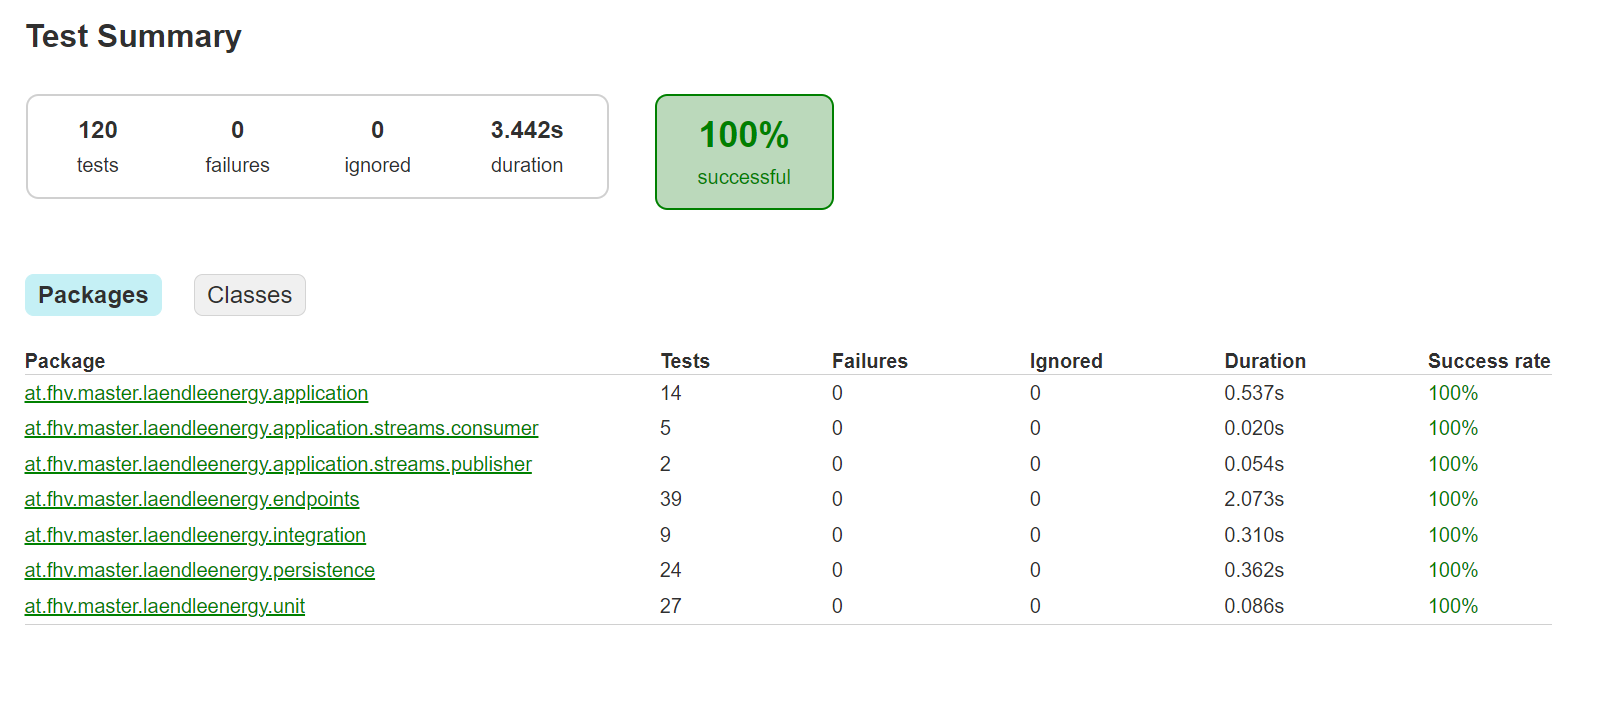
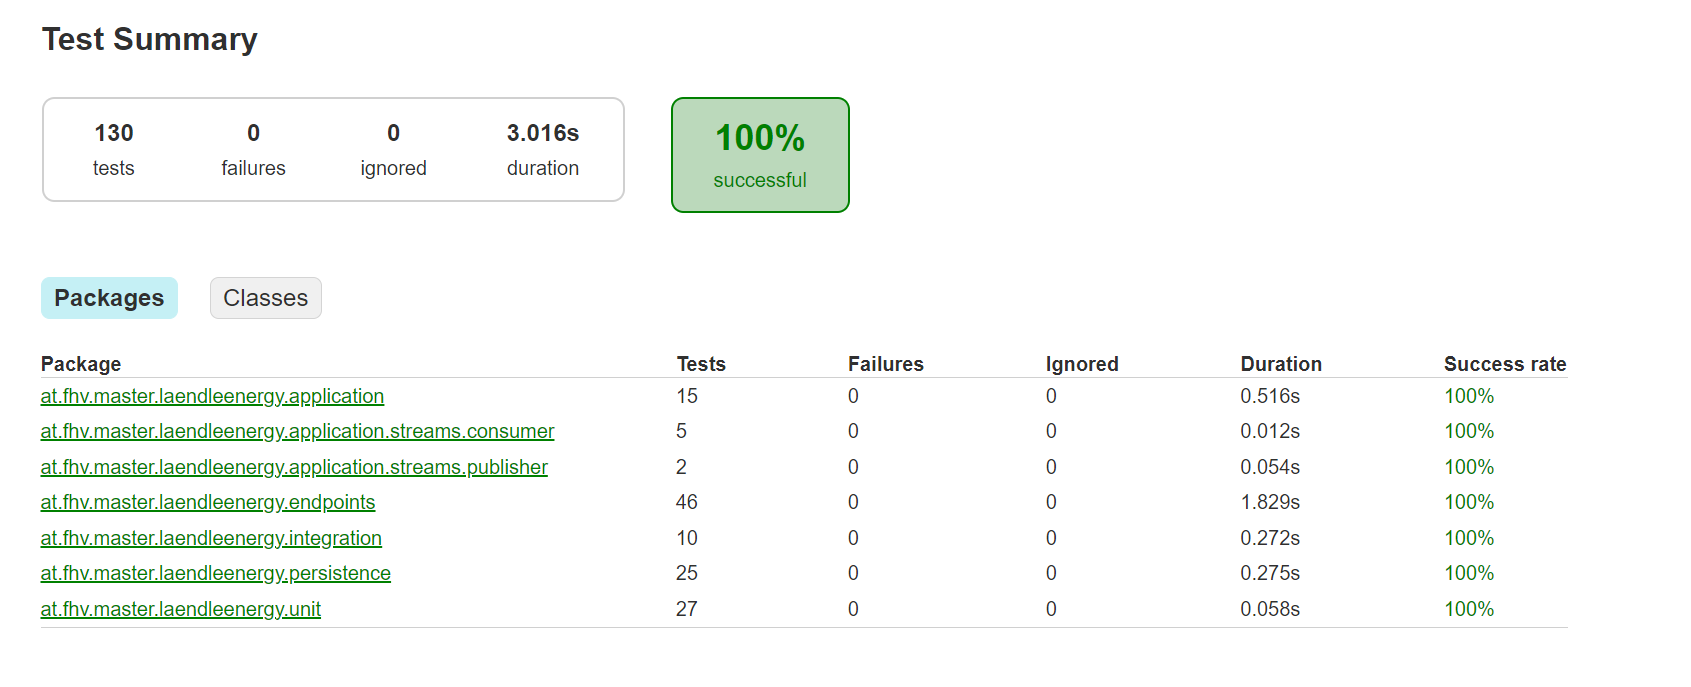
update

diff --git a/index.md b/index.md
@@ -417,7 +417,7 @@ In Figure 9 on the other hand, the Jacoco report of the Accountmanagement servic
 
 #### 2.4.2 Householdmanagement
 
-In Figure 10 the testing report of the Householdmanagement service is shown. For this service, 120 tests have been written.
+In Figure 10 the testing report of the Householdmanagement service is shown. For this service, 130 tests have been written.
 ![Testing Report - Householdmanagement](/images/test-summary_householdmanagement.png) _Figure 10: Testing Report - Householdmanagement_
 
 Figure 11 illustrates the code coverage achieved by those tests.
@@ -615,7 +615,6 @@ _Author_: Bianca
 
 Due to the limited time, we did not implement every functionality we initially planned. So, following could be considered as **possible extensions** of this project:
 
-- Enable editing devices
 - Identify most energy efficient devices in comparison to comparable devices of other households (devices-overview page)
 - Calculate energy efficiency of a specific device
 - Show trend of costs for a day/week/month/year (energy-saving page)
